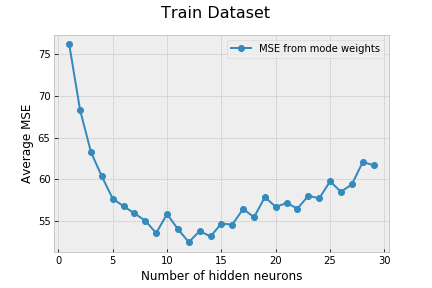
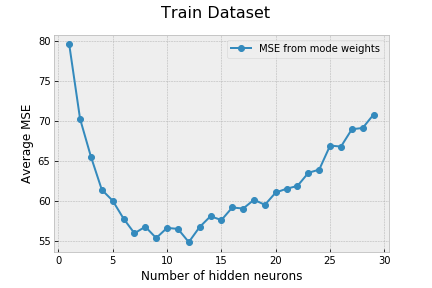
Updated

diff --git a/source/main_boston.py b/source/main_boston.py
@@ -6,15 +6,29 @@ import matplotlib.pyplot as plt
 import random
 import csv  
 import pandas as pd
-
-random.seed(1)
+import math
 
 # the data, split between train and test sets
+random.seed(1)
 x_train, y_train, x_test, y_test = u.return_boston_processed_data()
 
-logz_file_name = r'logz6.csv'
-mse_train_file_name = r'mse_train6.csv'
-mse_test_file_name = r'mse_test6.csv'
+
+# write out train data
+boston_train = r'boston_data_train.csv'
+df_train = pd.DataFrame(data=x_train)
+df_train[13] = y_train 
+df_train.to_csv(boston_train, index =False, header =False)
+
+# write out test data
+boston_test = r'boston_data_test.csv'
+df_test = pd.DataFrame(data=x_test)
+df_test[13] = y_test
+df_test.to_csv(boston_test, index =False, header =False)
+
+
+logz_file_name = r'logz_boston.csv'
+mse_train_file_name = r'mse_train_boston.csv'
+mse_test_file_name = r'mse_test_boston.csv'
 
 #Store results
 x_axis = range(1, 31, 1) # Degree of polynomial
@@ -23,8 +37,16 @@ sims = range(1, 31, 1) # How many times to runj the simulations
 input_neurons = x_train.shape[1] # inputs
 output_neurons = 1
 
-def prior_ptform(uTheta):
-    theta = norm.ppf(uTheta, loc = 0, scale = 5)    
+# Read in alpha and beta from GA results
+alpha = pd.read_excel("alpha_boston_mean.xlsx").values
+beta = pd.read_excel("beta_boston_mean.xlsx").values
+
+alpha = alpha.reshape(30,1)
+beta = beta.reshape(30,1)
+
+def prior_ptform(uTheta,*ptform_args):
+    alpha_val = ptform_args[0]
+    theta = norm.ppf(uTheta, loc = 0, scale = 1/alpha_val)  
     return theta
 
 def log_likelihood(W, *logl_args):
@@ -32,8 +54,9 @@ def log_likelihood(W, *logl_args):
                            logl_args[0], 
                            logl_args[1], 
                            logl_args[2])
-    val = -u.mean_squared_error(y_pred, y_train)
-    return val
+    beta_val = logl_args[3]
+    val = -u.mean_squared_error(y_pred, y_train) 
+    return val*beta_val
 
 with open(logz_file_name, 'a') as f:
     writer = csv.writer(f)
@@ -57,7 +80,8 @@ for s  in sims:
         hidden_neurons = i
         ndim_1 =  (input_neurons+1) * (hidden_neurons) + (hidden_neurons +1) * output_neurons
         nlive = 100 * ndim_1
-        logl_args = [input_neurons, hidden_neurons, output_neurons]
+        logl_args = [input_neurons, hidden_neurons, output_neurons, beta[29][0]]
+        ptform_args = [alpha[29][0]]
         
         print(" ")
         print("\n Number of hidden neurons :::::", hidden_neurons, ":::::::::::::::::::\n")
@@ -66,9 +90,10 @@ for s  in sims:
                                        prior_ptform,
                                        ndim = ndim_1,
                                        nlive = nlive,
-                                       logl_args = logl_args
+                                       logl_args = logl_args,
+                                       ptform_args = ptform_args
                                        )
-        sampler.run_nested(maxiter = 5000)
+        sampler.run_nested(maxiter = 300)
         res = sampler.results
         results_list.append(res)
         
@@ -99,23 +124,23 @@ print("\n Time :::", end - start)
 
 '''Plots '''
 #read in data stored in the files 
-data_logz = pd.read_csv("logz6.csv") 
-data_mse_train = pd.read_csv("mse_train6.csv") 
-data_mse_test = pd.read_csv("mse_test6.csv") 
+data_logz = pd.read_csv("logz_boston.csv") 
+data_mse_train = pd.read_csv("mse_train_boston.csv") 
+data_mse_test = pd.read_csv("mse_test_boston.csv") 
 
 logz_train_avarage = data_logz.mean()
 mse_train_avarage = data_mse_train.mean()
 mse_test_avarage = data_mse_test.mean()
 
-with open(r'logz6_mean.csv', 'a') as f:
+with open(r'logz_boston_mean.csv', 'a') as f:
     writer = csv.writer(f)
     writer.writerow(logz_train_avarage)
     
-with open(r'mse_train6_mean.csv', 'a') as f:
+with open(r'mse_train_boston_mean.csv', 'a') as f:
     writer = csv.writer(f)
     writer.writerow(mse_train_avarage)
 
-with open(r'mse_test6_mean.csv', 'a') as f:
+with open(r'mse_test_boston_mean.csv', 'a') as f:
     writer = csv.writer(f)
     writer.writerow(mse_test_avarage)
 

diff --git a/source/utilities.py b/source/utilities.py
@@ -250,6 +250,78 @@ def return_boston_processed_data():
     
     return x_train, y_train, x_test, y_test
 
+def return_protein_processed_data():
+    dataset = pd.read_csv("Protein_Data.csv", header = None) 
+     #Split the data into training and test set
+    X = dataset.iloc[:,:-1].values
+    y = dataset.iloc[:,-1].values
+    
+    # Scale features to have mean 0 and variance 1 
+    scaler = MinMaxScaler()
+    X_scaled = scaler.fit_transform(X)
+    
+    x_train,x_test,y_train,y_test = train_test_split(X_scaled,y,test_size = 0.3,random_state = 1)
+    
+    return x_train, y_train, x_test, y_test
+
+def return_yacht_processed_data():
+    dataset = pd.read_csv("Yacht_Data.txt", sep=" ", header=None) 
+     #Split the data into training and test set
+    X = dataset.iloc[:,:-1].values
+    y = dataset.iloc[:,-1].values
+    
+    # Scale features to have mean 0 and variance 1 
+    scaler = MinMaxScaler()
+    X_scaled = scaler.fit_transform(X)
+    
+    x_train,x_test,y_train,y_test = train_test_split(X_scaled,y,test_size = 0.3,random_state = 1)
+    
+    return x_train, y_train, x_test, y_test
+
+
+def return_diabetes_processed_data():
+    X, Y = datasets.load_diabetes(return_X_y =True)
+        
+    # Scale features to have mean 0 and variance 1 
+    scaler = MinMaxScaler()
+    X_scaled = scaler.fit_transform(X)
+    
+    # Split the data set into training and testing
+    x_train, x_test, y_train, y_test = train_test_split(
+        X_scaled, Y, test_size = 0.3, random_state = 1)
+    
+    return x_train, y_train, x_test, y_test
+
+def return_concrete_processed_data():
+    dataset = pd.read_excel("Concrete_Data.xls")
+        
+    #Split the data into training and test set
+    X = dataset.iloc[:,:-1].values
+    y = dataset.iloc[:,-1].values
+    
+    # Scale features to have mean 0 and variance 1 
+    scaler = MinMaxScaler()
+    X_scaled = scaler.fit_transform(X)
+    
+    x_train,x_test,y_train,y_test = train_test_split(X_scaled,y,test_size = 0.3,random_state = 1)
+    
+    return x_train, y_train, x_test, y_test
+
+def return_power_processed_data():
+    dataset = pd.read_excel("Power_Data.xlsx")
+        
+    #Split the data into training and test set
+    X = dataset.iloc[:,:-1].values
+    y = dataset.iloc[:,-1].values
+    
+    # Scale features to have mean 0 and variance 1 
+    scaler = MinMaxScaler()
+    X_scaled = scaler.fit_transform(X)
+    
+    x_train,x_test,y_train,y_test = train_test_split(X_scaled,y,test_size = 0.3,random_state = 1)
+    
+    return x_train, y_train, x_test, y_test
+
 def return_mnist_processed_data():
     # the data, split between train and test sets
     (x_train, y_train), (x_test, y_test) = tf.keras.datasets.mnist.load_data(path='mnist.npz')
